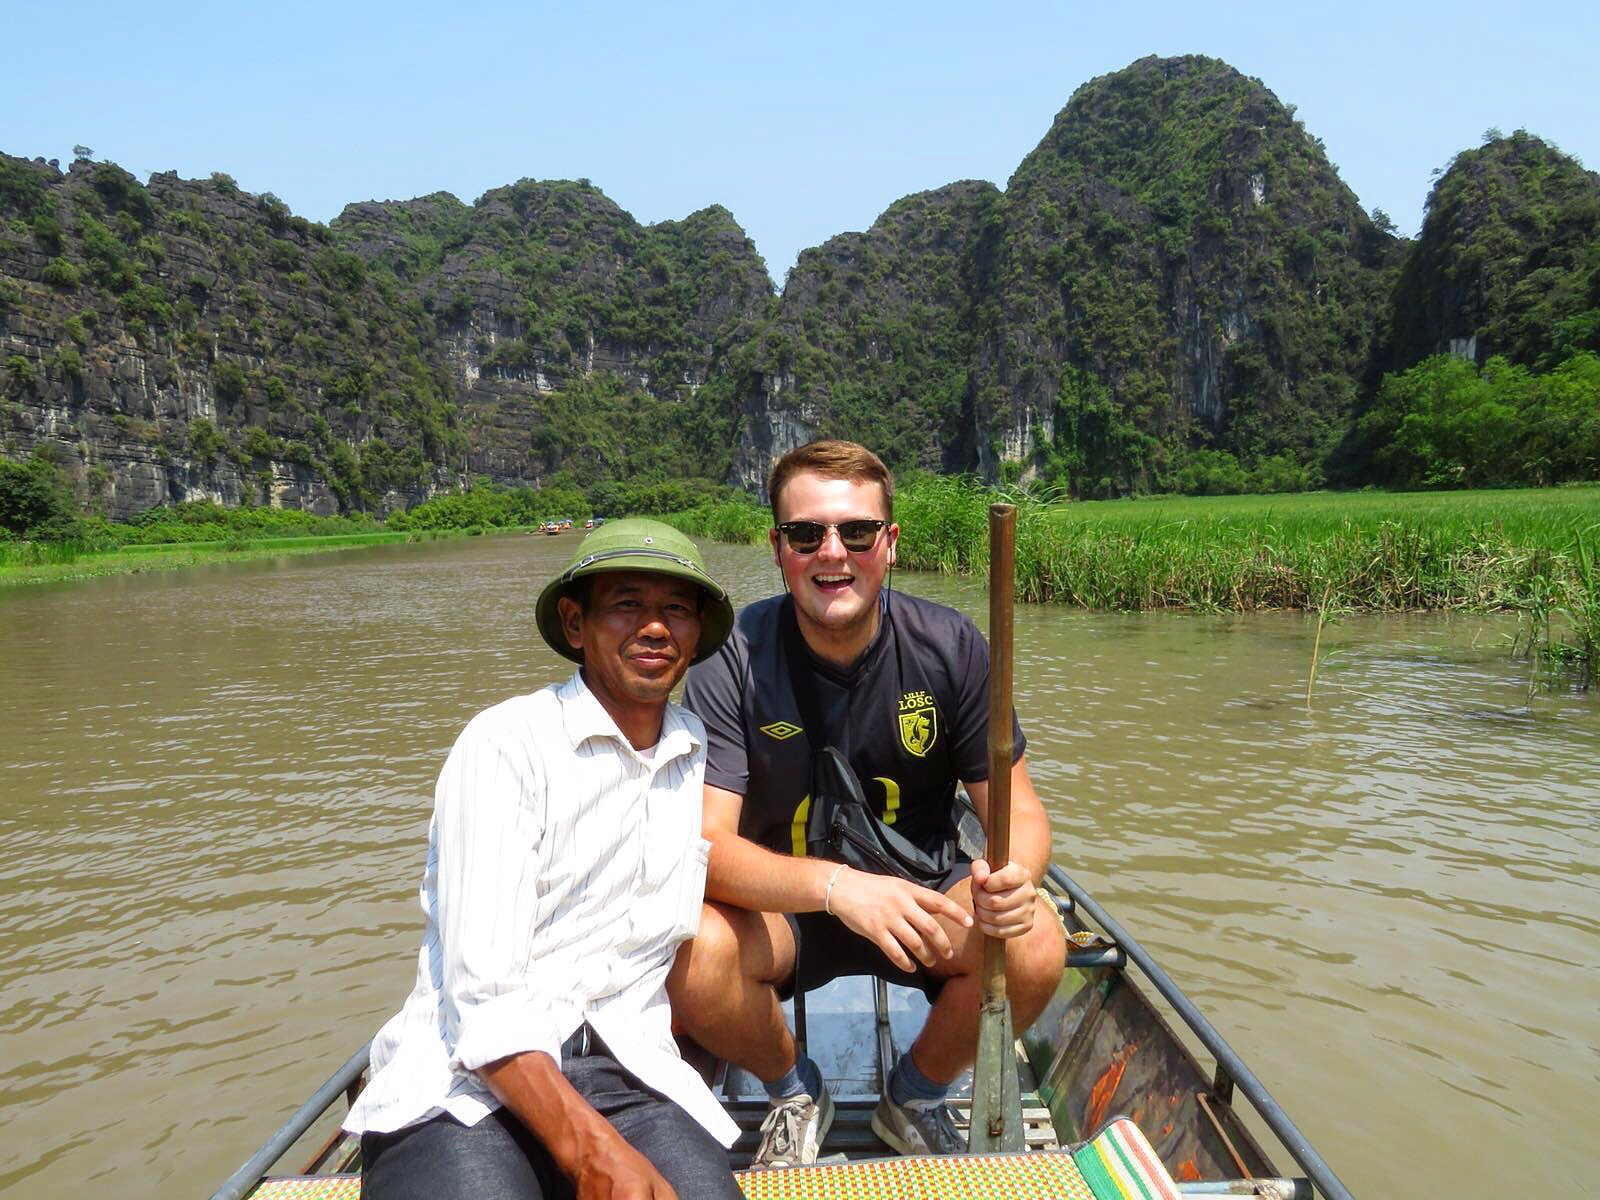
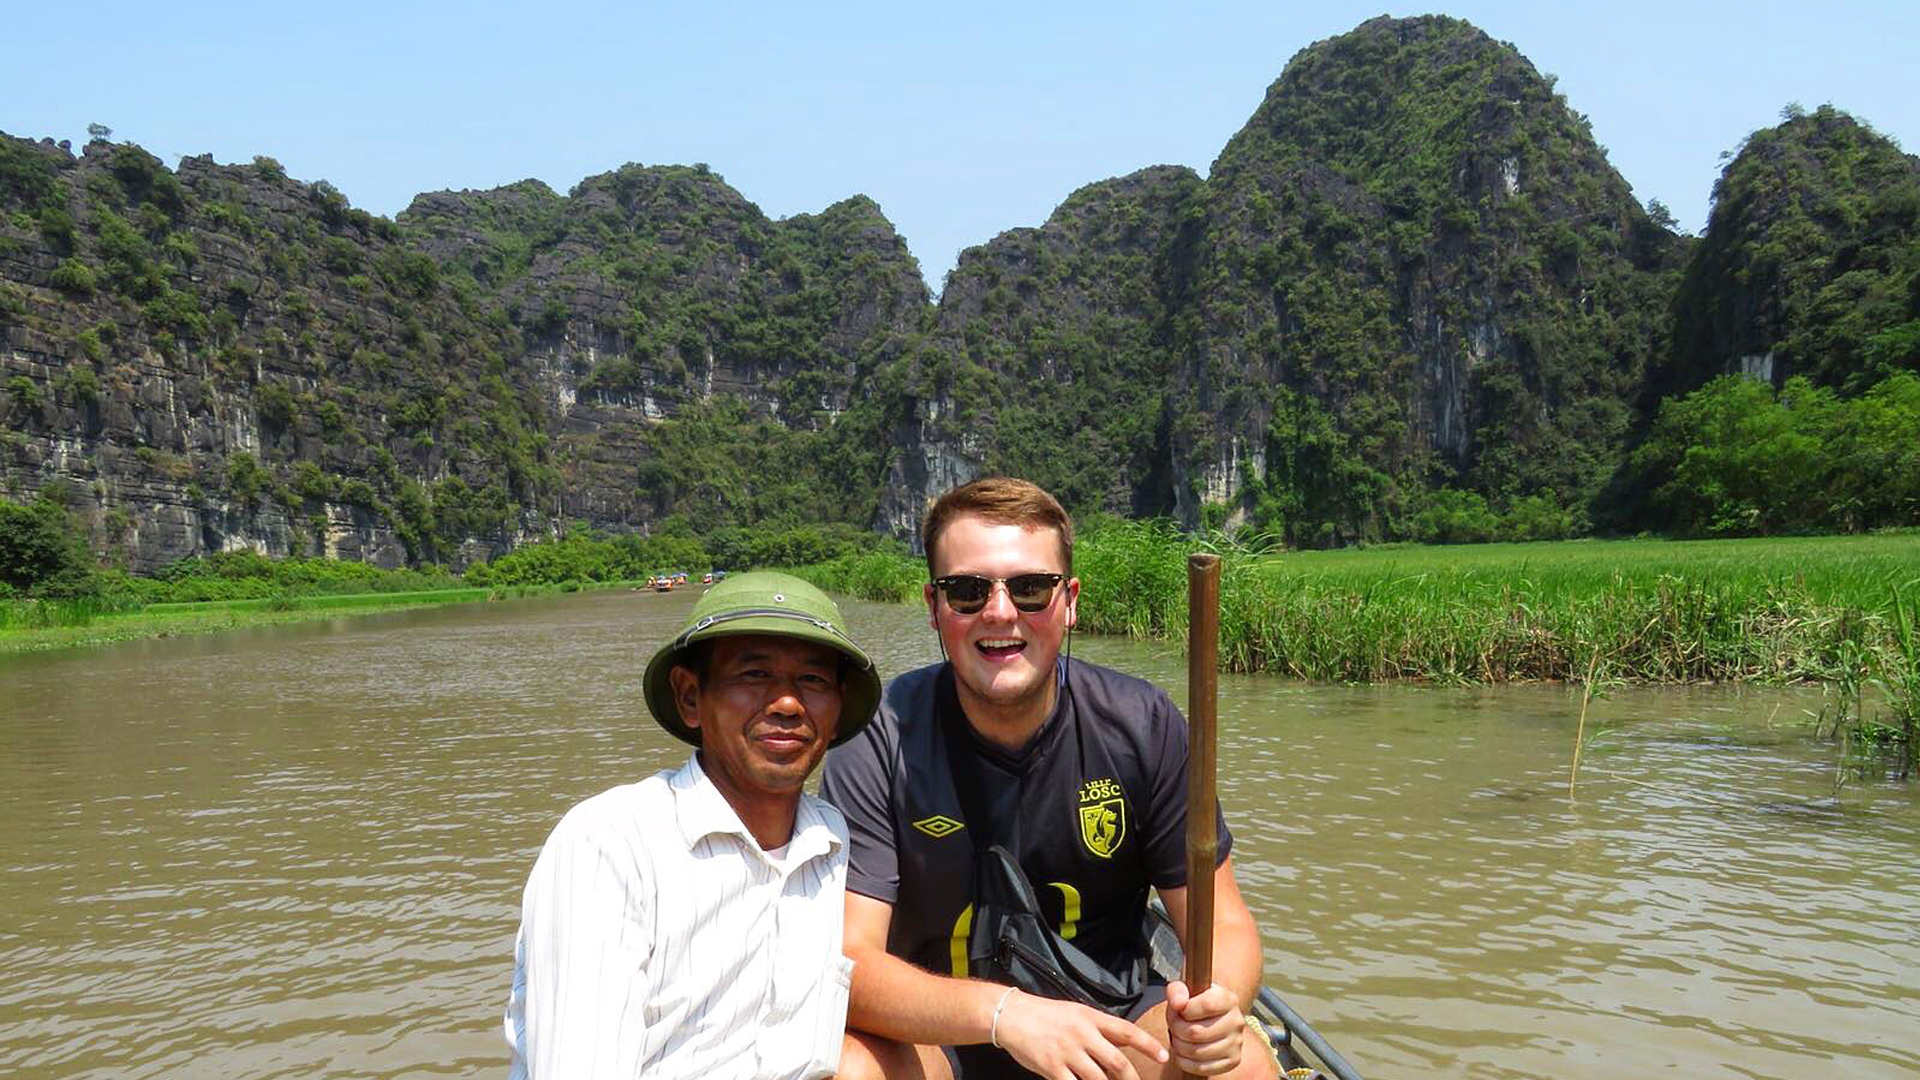
more tweeks

diff --git a/index.html b/index.html
@@ -23,23 +23,23 @@
 
         <section class="slideshow-container">
 
-            <div class="mySlides fade">
-              <img src="images/ella.jpg" style="width:100%;">
+            <div class="mySlides">
+              <img src="images/ella.jpg">
               <div class="text">Ella, Sri Lanka</div>
             </div>
             
-            <div class="mySlides fade">
-              <img src="images/nz.jpg " style="width: 100%;">
+            <div class="mySlides">
+              <img src="images/nz.jpg ">
               <div class="text">Waiotapu, New Zealand</div>
             </div>
             
-            <div class="mySlides fade">
-              <img src="images/vietnam.jpg" style="width: 100%;">
+            <div class="mySlides">
+              <img src="images/vietnam.jpg">
               <div class="text">Tam Cốc, Vietnam</div>
             </div>
 
-            <div class="mySlides fade">
-                <img src="images/dragonstone.jpg" style="width: 100%;">
+            <div class="mySlides">
+                <img src="images/dragonstone.jpg">
                 <div class="text">Gaztelugatxe, Spain (A.K.A Drogonstone)</div>
               </div>
             
@@ -56,10 +56,10 @@
         <section class="hobbies">
             <h1>Hobbies</h1>
                 <p>My main hobbies are focuessed around sport, music & food. I am an avid Burnley FC fan and have been a season ticket holder for 20 years, following home and away most weekends.<br>
-                    I love going to gigs and live music events. Most gigs I attend are Indie Rock/Pop, Lo-Fi or Hip-Hop. I worked for 5 years at the UK's largest festivals as a chef for various catering companies which has allowed me to build up quite a portfolio of acts watched live!<br>
-                    As mentined above, I love all things food! Trying a new restaurant, drinking a new Gin or IPA or cooking a new recipe at home. You would most often find me socialising with good friends at local bars or restaurants at the weekend!<br>
+                    I enjoy going to gigs and live music events. Most gigs I attend are Indie Rock/Pop, Lo-Fi or Hip-Hop. I worked for 5 years at the UK's largest festivals as a chef for various catering companies which has allowed me to build up quite a portfolio of acts watched live!<br>
+                    I love all things food! Trying a new restaurant, drinking a new Gin or IPA or cooking a new recipe at home. You would most often find me socialising with good friends at local bars or restaurants at the weekend!<br>
                     I enjoy exercising (as much as anyone can possibly enjoy it!). I am the player/manager of a Sunday league team in Ramsbottom and enjoy going to the gym, out on runs or long country walks with the dogs!<br>
-                    I love to travel and have speant time in New Zealand, South east Asia, Sri Lanka and mainland Europe. My favouritte place I Have been is a toss up between Hoi An, Queenstown or San Sebastian!</p>
+                    I try my best to travel as much as possible and have speant time in New Zealand, South east Asia, Sri Lanka and mainland Europe. Hoi An, Queenstown & San Sebastian </p>
         </section>
 
         <section class="likes">
@@ -103,19 +103,16 @@
                
         </section>
 
-        <section class="quotes">
-            <h2>Favourite Quotes</h2>
-                <p><i>"Stupidity got us into this mess, and stupidity will get us out"</i> - Homer J. Simpson</p>
-        </section>
-        <footer id="footer">
-            <div class="social-icons-container">
-                <a href="https://twitter.com/jbram_js" target="_blank"><img src="images/twitter.svg" class="social-icon" alt="Twitter Icon"/></a>
-                <a href="https://redbubble.com/people/printsbybram/shop" target="_blank"><img src="images/redbubble.svg" class="social-icon" alt="Redbubble Icon"/></a>
-                <a href="https://github.com/jbram-js" target="_blank"><img src="images/github.svg" class="social-icon" alt="GitHub Icon"/></a>
-                <a href="https://instagram.com/instabram1882/" target="_blank"><img src="images/instagram.svg" class="social-icon" alt="Instagram Icon"/></a>
-              </div>
+        <footer>
+          <ul class="footer">
+            <li><a href="https://twitter.com/jbram_js" target="blank" class="footer-link">Twitter</a></li>
+            <li><a href="https://www.instagram.com/instabram1882" target="blank" class="footer-link">Instagram</a></li>
+            <li><a href="mailto:josephobramwell@gmail.com" target="blank" class="footer-link">Email</a></li>
+            <li><a href="https://github.com/jbram-js" target="blank" class="footer-link">Github</a></li>
+            <li class="wave">👋</li>
+          </ul>
         </footer>
-    
+
         <script>
             var slideIndex = 1;
             showSlides(slideIndex);
@@ -145,24 +142,6 @@
             }
             </script>
 
-            <button onclick="topFunction()" id="top-button" title="Go to top">To the top!</button>
-            <script>
-      
-              window.onscroll = function() {scrollFunction()};
-      
-              function scrollFunction() {
-                if (document.body.scrollTop > 400 || document.documentElement.scrollTop > 400) {
-                    document.getElementById("myBtn").style.display = "block";
-                } else {
-                    document.getElementById("myBtn").style.display = "none";
-                }
-              }
-      
-              function topFunction() {
-                document.body.scrollTop = 0;
-                document.documentElement.scrollTop = 0;
-              }
-            </script>
             
         </body>
     </html>

diff --git a/style.css b/style.css
@@ -8,23 +8,21 @@ html {
   
   
   body {
-    font-family: 'Oswald', sans-serif;
+    font-family: Menlo, monospace;
     background:#ffffff;
-    font-size: 18px;
+    font-size: 20px;
     margin: 0px;
     padding: 0 20px 0 20px;;
   }
 
-
-
-  ul {
+ul {
       list-style: none;
   }
 
   h1 {
     font-family: 'Lobster', cursive;
     color: #FD5800;
-    font-size: 28px;;
+    font-size: 30px;;
   }
 
 h1.header-heading {
@@ -35,6 +33,10 @@ h1.header-heading {
 
   p {
       color: #000000;
+  }
+
+  img {
+    width: 100%;
   }
 
   a.nav-link {
@@ -56,7 +58,6 @@ h1.header-heading {
 
   a.nav-link:hover {
     background-color:#FD5800;
-    );
     color: #ffffff;
     transform: scale(1.1);
   }
@@ -70,30 +71,62 @@ h1.header-heading {
     text-decoration: underline;
 }
 
-  footer{
-    background-color: #FD5800;
-    height: 160px;
-    background-repeat: no-repeat;
-    background-size: 100%;
-    background-position: center;
-    color: #fff;
-    text-align: center;
-    display: flex;
-    justify-content: center;
-    align-items: center;
-    margin-top: 20px;
-    padding: 0px !important;
-  }
+ul.footer {
+  display: inline-grid;
+  grid-auto-flow: row;
+  grid-gap: 24px;
+  justify-items: center;
+  margin: auto;
+  padding: 20px 20px;
+}
 
-  .social-icon{
-    align-items: stretch;
-    height: 60px;
-    margin: 10px 20px;
+@media (min-width: 500px) {
+  ul.footer {
+    grid-auto-flow: column;
   }
-  
-  .social-icons-container{
-    text-align: center;
+}
+
+a.footer-link {
+  color: white;
+  text-decoration: none;
+  box-shadow: inset 0 -1px 0 hsla(0, 0%, 100%, 0.4);
+}
+
+a.footer-link:hover {
+  box-shadow: inset 0 -1.2em 0 hsla(0, 0%, 100%, 0.4);
+}
+
+li:last-child {
+  grid-column: 1 / 2;
+  grid-row: 1 / 2;
+}
+
+li:hover ~ li.wave {
+  animation: wave-animation 0.3s infinite;
+}
+
+/* below is just for demo styling */
+
+footer {
+  display: flex;
+  width: 100%;
+  background-color: #FD5800;
+  line-height: 1.3;
+  font-family: Menlo, monospace;
+}
+
+@keyframes wave-animation {
+  0%,
+  100% {
+    transform: rotate(0deg);
   }
+  25% {
+    transform: rotate(20deg);
+  }
+  75% {
+    transform: rotate(-15deg);
+  }
+}
 
   .flex-nav ul {
     list-style: none;
@@ -114,6 +147,32 @@ h1.header-heading {
   }
   
   @media all and (max-width:1000px) {
+
+    body {
+      font-size: 14px;
+      padding: 0 10px 0 10px;;
+    }
+
+    h1.header-heading {
+      font-size: 28px;
+    }
+
+    h1 {
+      font-size: 24px;
+      
+    }
+
+    a.nav-link {
+      font-size: 14px;
+    }
+
+    .prev, .next {
+      font-size: 24px;
+      font-weight: normal;
+    }
+
+    
+
   
     .flex-nav ul {
       flex-wrap:wrap;
@@ -122,15 +181,17 @@ h1.header-heading {
     .flex-nav li {
       flex:1 1 50%;
     }
+  }
 
     @media all and (max-width:500px) {
   
         .flex-nav li {
           flex-basis:100%;
         }
+    }
+    
 
 .slideshow-container {
-    max-width: 1000px;
     position: relative;
   }
   
@@ -140,7 +201,7 @@ h1.header-heading {
     top: 50%;
     width: auto;
     padding: 16px;
-    margin-top: -22px;
+    margin-top: -60px;
     color: #FD5800; 
     font-weight: bold;
     font-size: 30px;
@@ -159,4 +220,4 @@ h1.header-heading {
   }
 
   
-
+    
